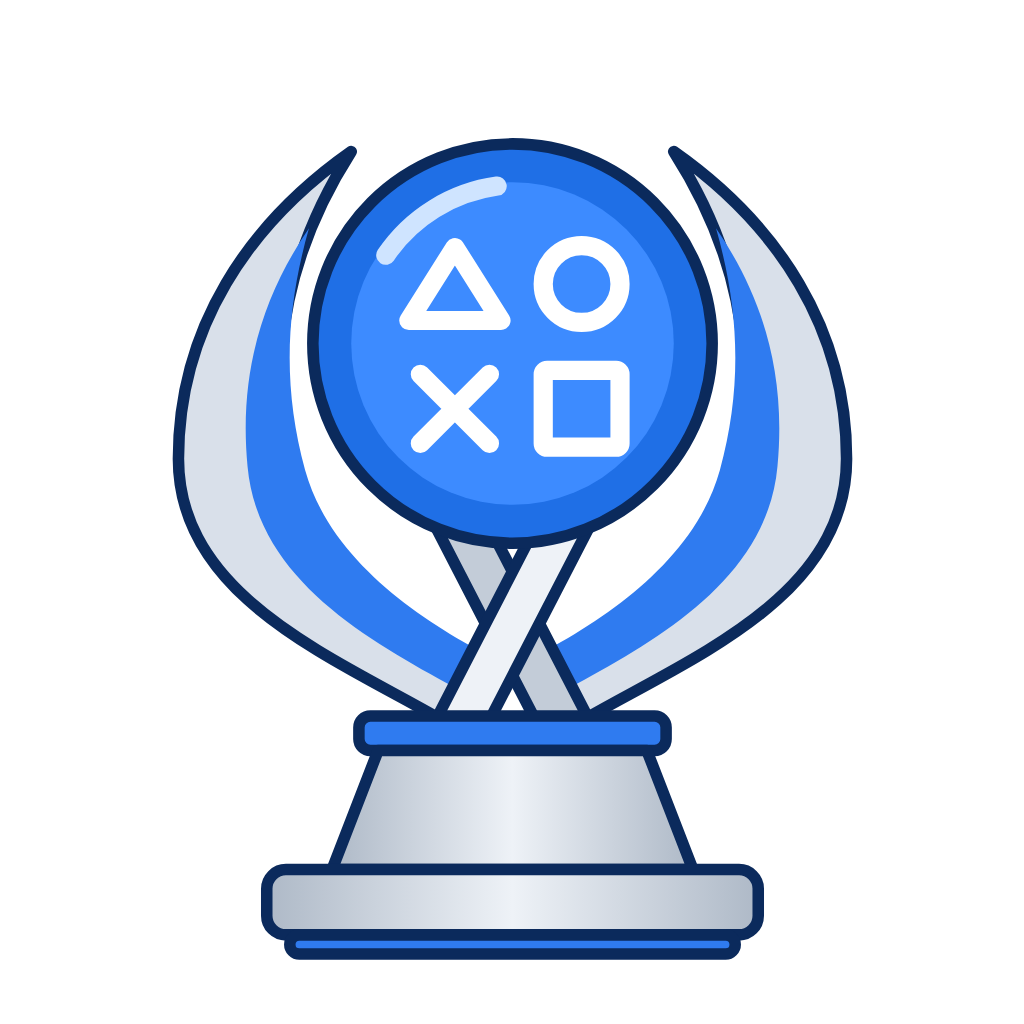
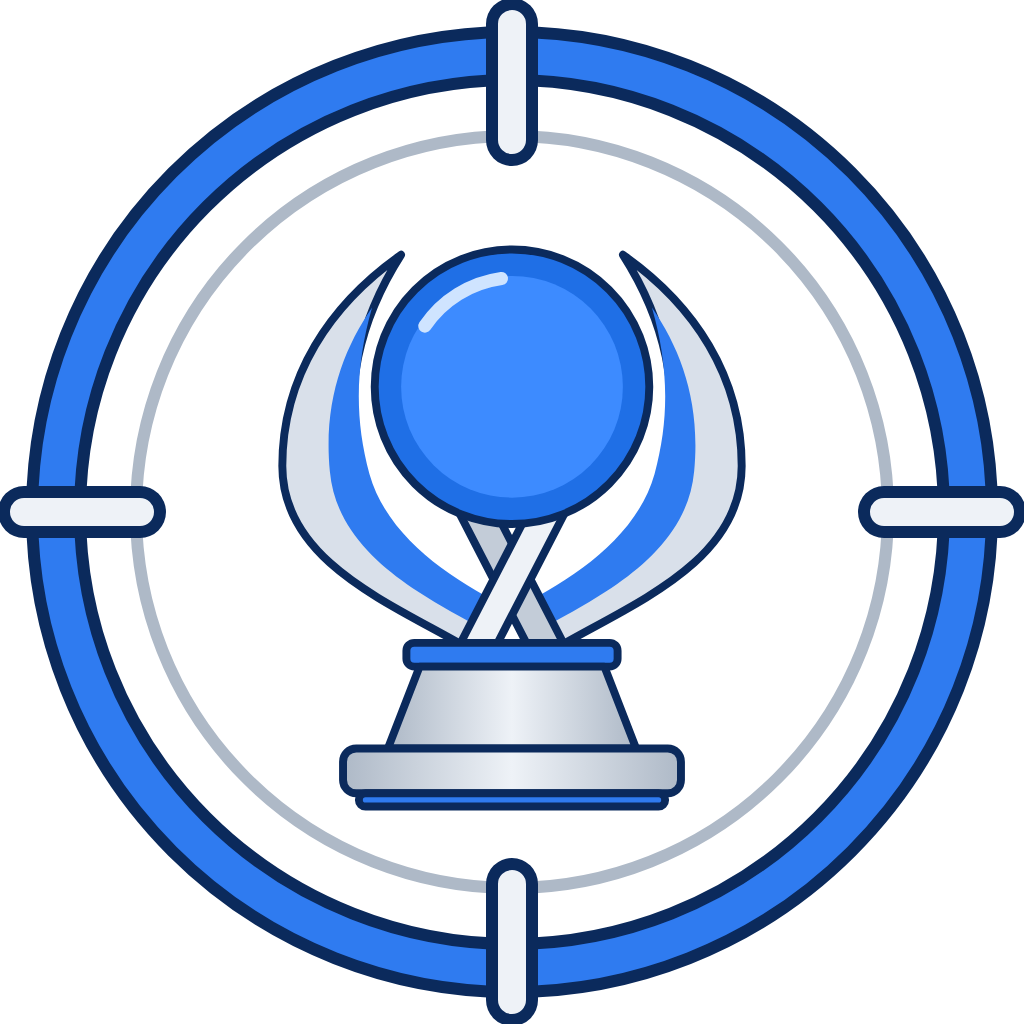
Ícone novo: troféu de platina dentro de um alvo de caça
O troféu de platina perde os símbolos dos botões da PlayStation e fica
no centro de uma mira (anéis e marcas). Regerados o ícone comum,
redondo e adaptativo de todas as densidades, as telas de abertura e o
ícone da tela de login, mais o ícone 512 px e a imagem de destaque
1024×500 da Play Store.

Claude-Session: https://claude.ai/code/session_017mpu5v6dnX2X2pzJxWtcg4

diff --git a/docs/play-store.md b/docs/play-store.md
@@ -54,7 +54,7 @@ segredos, o AAB é compilado só para conferir e não é publicado como artefato
    - **Classificação de conteúdo**: questionário (sem violência, sem compras; tem interação entre usuários só por curtidas e pedidos de boost).
    - **Público-alvo**: 13 anos ou mais.
    - **Segurança dos dados** (com os recursos online ligados): coleta **ID de usuário** (ID e avatar da PSN) e **outro conteúdo gerado pelo usuário** (curtidas e pedidos de boost), para *funcionalidade do app*; criptografado em trânsito; o usuário pode pedir a exclusão (ver a política). Senha da PSN: **não** é coletada (o login é na página da Sony). Troféus e amigos ficam só no aparelho.
-5. **Página da loja**: ícone 512×512 (`assets/app-icon.png`), imagem de destaque 1024×500, pelo menos 2 capturas de tela de celular (e de tablet de 7" e 10", recomendadas: o app se ajusta a elas), descrição curta (até 80 caracteres) e completa.
+5. **Página da loja**: ícone 512×512 (`assets/play-store-icon.png`), imagem de destaque 1024×500 (`assets/play-store-feature.png`), pelo menos 2 capturas de tela de celular (e de tablet de 7" e 10", recomendadas: o app se ajusta a elas), descrição curta (até 80 caracteres) e completa.
 
 ### Texto sugerido
 
@@ -68,8 +68,7 @@ segredos, o AAB é compilado só para conferir e não é publicado como artefato
 - **Nome embaixo do ícone:** `Plathunt` (vem de `capacitor.config.ts` e `android/app/src/main/res/values/strings.xml`).
 - O nome não usa "PlayStation", "PSN" nem "PS" (marcas da Sony). Na descrição, citar
   que o app funciona com os troféus da PSN é permitido, junto do aviso "não afiliado à Sony".
-- **Ícone:** o troféu atual traz os símbolos △ ○ ✕ □ dos botões, que também são
-  marca da Sony. Para reduzir o risco de recusa, troque por um ícone sem eles.
+- **Ícone:** troféu de platina dentro de um alvo de caça (mira), sem os símbolos dos botões da PlayStation (`assets/app-icon.svg`).
 
 ## Telas e aparelhos
 

diff --git a/README.md b/README.md
@@ -130,7 +130,7 @@ npm run android:build              # compila mobile/ e copia para android/
 npx cap open android               # abre no Android Studio → Run
 ```
 
-O ícone é um troféu de platina em 2D com fundo transparente, desenhado em vetor em `assets/app-icon.svg` (com uma versão `assets/app-icon.png` de 1024 px). Os PNGs gerados a partir dele ficam em `android/app/src/main/res/`: ícone comum e redondo, ícone adaptativo (troféu na camada da frente e camada de fundo transparente) e as telas de abertura.
+O ícone é um troféu de platina em 2D dentro de um alvo de caça (mira), sem os símbolos dos botões da PlayStation, com fundo transparente, desenhado em vetor em `assets/app-icon.svg` (com uma versão `assets/app-icon.png` de 1024 px). Os PNGs gerados a partir dele ficam em `android/app/src/main/res/`: ícone comum e redondo, ícone adaptativo (troféu na camada da frente e camada de fundo transparente) e as telas de abertura. Para a Play Store há `assets/play-store-icon.png` (512 px, fundo escuro) e `assets/play-store-feature.png` (imagem de destaque 1024×500).
 
 > ⚠ A API da PSN usada aqui não é oficial. A Sony pode mudar ou bloquear esse fluxo, e o uso pode conflitar com os termos de serviço da PSN. O app não é afiliado à Sony.
 
